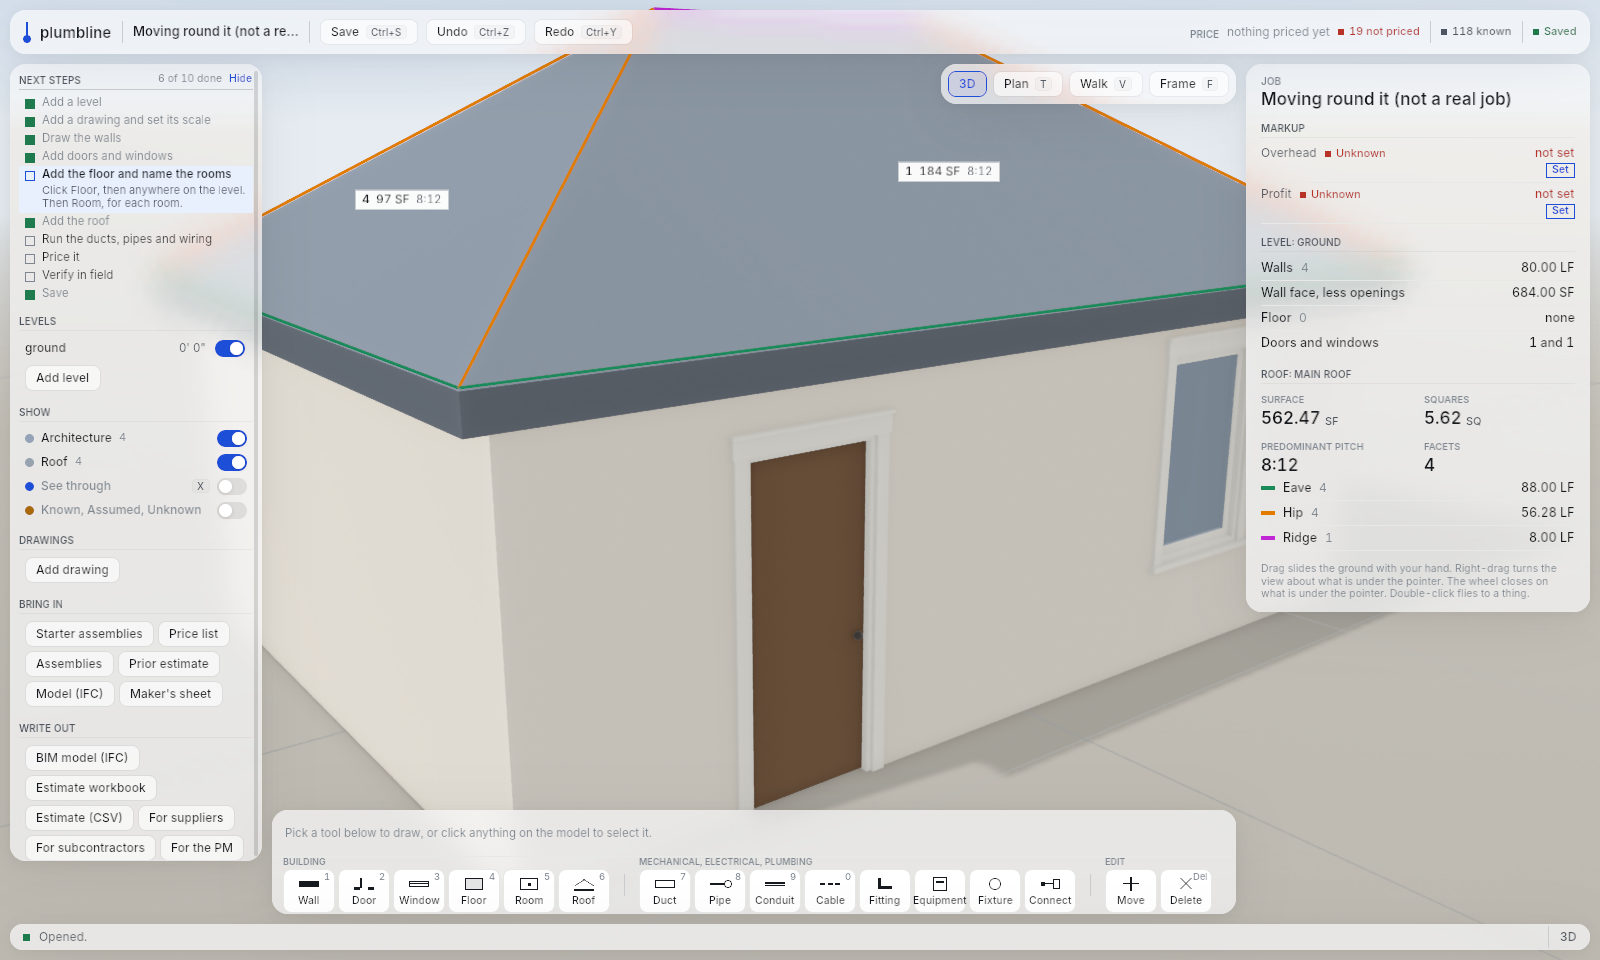
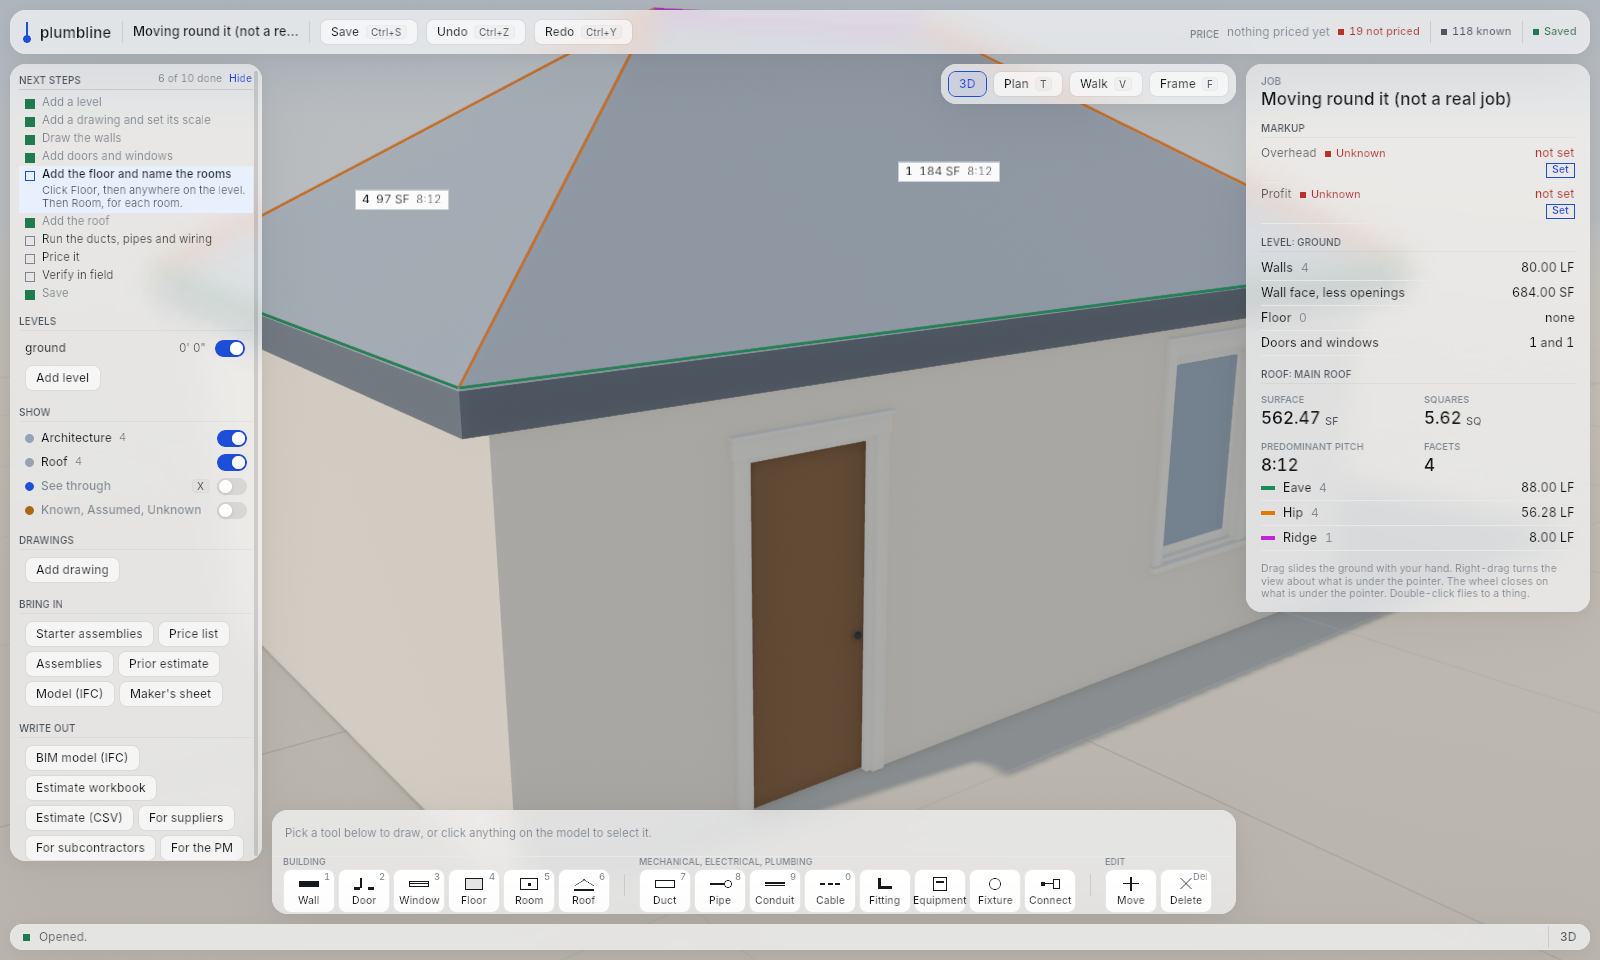
plumbline: the base in a room is drawn where it is priced; all seven of Patrick's trades have something in the model (call 73)
A wood base at the foot of the walls of each room with base priced on it,
along the room's outline, left out at each door; off with Finishes. Read
from the room's priced lines with a test. 280 tests pass. The pictures are
in demos/captured/trades with a table in STATUS of what each trade shows
and what it still lacks.

Under the new light the glass, carry, price and first-job demonstrations
pass as written; their pictures are from the build of the sky's-fill commit.
Two of the dressing demonstration's colour checks are re-derived for a wall
now out of the sun, each proved against the other's picture; its rerun and
the plan demonstration's are going.

Claude-Session: https://claude.ai/code/session_01PMY5GTDksocgFxqnWiqF81

Changed region(s): [[0.2812, 0.3125, 0.875, 0.8438], [0.0, 0.0, 1.0, 0.2812]]

diff --git a/plumbline/crates/app/src/scene.rs b/plumbline/crates/app/src/scene.rs
@@ -466,6 +466,64 @@ pub fn rebuild(
     // looks, half its thickness and its top. An eave that hangs past one gets a soffit.
     let mut outside_walls: Vec<(Vec3, Vec3, Vec3, f32, f32)> = Vec::new();
 
+    // ---- Interior woodwork: the base in each room that has base priced on it ----
+    // A board 5 1/4 in high and 5/8 in thick at the foot of the room's walls, along
+    // the room's own outline (the faces of its walls), left out across each door.
+    // It is finish: off with Finishes, and with its level.
+    if show.finishes && show.architecture && !on_plan_view {
+        let (tall, thick) = (5.25_f32 / 12.0, 0.625_f32 / 12.0);
+        for (room, (storey, outline)) in &snap.dress.base {
+            if show.storey.as_ref().is_some_and(|s| storey.as_ref() != Some(s)) || storey.as_ref().is_some_and(|s| show.off_levels.contains(s)) {
+                continue;
+            }
+            let floor = storey.as_ref().and_then(|s| snap.storeys.iter().find(|x| x.path == *s)).and_then(|s| s.elevation).unwrap_or(0.0);
+            // The doors of this level, each as its two ends on the plan and how far
+            // either side of its wall's centre line the wall reaches.
+            let doors: Vec<([f64; 2], [f64; 2], f64)> = snap.drawn.iter().filter(|p| p.kind == Kind::Wall && p.storey == *storey).flat_map(|p| match &p.shape {
+                Shape::Wall { a, b, thickness, holes, .. } => {
+                    let l = ((b[0] - a[0]).powi(2) + (b[1] - a[1]).powi(2)).sqrt().max(1e-9);
+                    let u = [(b[0] - a[0]) / l, (b[1] - a[1]) / l];
+                    holes.iter().filter(|h| h.1 == Kind::Door).map(|h| ([a[0] + u[0] * h.2[0], a[1] + u[1] * h.2[0]], [a[0] + u[0] * h.2[1], a[1] + u[1] * h.2[1]], thickness / 2.0 + 0.1)).collect::<Vec<_>>()
+                }
+                _ => Vec::new(),
+            }).collect();
+            for (i, e0) in outline.iter().enumerate() {
+                let e1 = outline[(i + 1) % outline.len()];
+                let len = ((e1[0] - e0[0]).powi(2) + (e1[1] - e0[1]).powi(2)).sqrt();
+                if len < 0.05 {
+                    continue;
+                }
+                let d = [(e1[0] - e0[0]) / len, (e1[1] - e0[1]) / len];
+                // What of this edge a door takes: a door in a wall that runs along it.
+                let mut cuts: Vec<(f64, f64)> = doors.iter().filter_map(|(p0, p1, reach)| {
+                    let off = |p: &[f64; 2]| ((p[0] - e0[0]) * d[1] - (p[1] - e0[1]) * d[0]).abs();
+                    let at = |p: &[f64; 2]| (p[0] - e0[0]) * d[0] + (p[1] - e0[1]) * d[1];
+                    (off(p0) <= *reach && off(p1) <= *reach).then(|| (at(p0).min(at(p1)), at(p0).max(at(p1))))
+                }).filter(|(t0, t1)| *t1 > 0.0 && *t0 < len).collect();
+                cuts.sort_by(|a, b| a.0.total_cmp(&b.0));
+                let mut from = 0.0;
+                let mut runs: Vec<(f64, f64)> = Vec::new();
+                for (t0, t1) in cuts {
+                    if t0 > from + 0.05 {
+                        runs.push((from, t0));
+                    }
+                    from = from.max(t1);
+                }
+                if len > from + 0.05 {
+                    runs.push((from, len));
+                }
+                // Inside the room is to the left of an outline that runs counter-clockwise.
+                let turn = Quat::from_rotation_y(d[1].atan2(d[0]) as f32);
+                for (t0, t1) in runs {
+                    let mid = (t0 + t1) / 2.0;
+                    let on_plan = [e0[0] + d[0] * mid - d[1] * f64::from(thick) / 2.0, e0[1] + d[1] * mid + d[0] * f64::from(thick) / 2.0];
+                    let middle = to_view(origin, [on_plan[0], on_plan[1], floor]) + Vec3::Y * (tall / 2.0);
+                    build.piece(room, None, solids.cube.clone(), Transform { translation: middle, rotation: turn, scale: Vec3::new((t1 - t0) as f32, tall, thick) }, theme::casework(), 0.6, 0.0, false);
+                }
+            }
+        }
+    }
+
     // ---- The rest of the building ----
     for p in &snap.drawn {
         // Its trade's switch, the level on show, its level's own switch, its system's.

diff --git a/plumbline/crates/world/src/finish.rs b/plumbline/crates/world/src/finish.rs
@@ -242,9 +242,21 @@ pub struct Dress {
     pub openings: HashMap<String, OpeningDress>,
     /// Eaves with a gutter priced on them, and the color named.
     pub gutters: HashMap<String, Said<()>>,
+    /// Rooms with base priced on them ("Base and trim", "baseboard"): the level each
+    /// is on, and its outline at the faces of its walls, counter-clockwise, in feet.
+    /// The base runs along that outline.
+    pub base: HashMap<String, (Option<String>, Vec<[f64; 2]>)>,
 }
 
 // ---- Reading a line ----
+
+/// Whether a line priced on a room names the base at the foot of its walls: "Base and
+/// trim", "baseboard", "wood base". Not a base cabinet, a gravel base or a base coat.
+pub fn base_in(text: &str) -> bool {
+    let w = words(text);
+    let other = ["cabinet", "cabinets", "gravel", "coat", "course", "plate", "sheet"];
+    w.iter().any(|x| x == "baseboard" || x == "baseboards") || (w.iter().any(|x| x == "base") && !w.iter().any(|x| other.contains(&x.as_str())))
+}
 
 /// Whether a line names a weather barrier: the sheet that keeps water out of the wall
 /// behind its finish. By the words the trade uses for it.
@@ -666,7 +678,8 @@ pub fn dress(job: &mut Job) -> Dress {
         let barrier = on.iter().any(|(text, _)| barrier_in(text));
         out.walls.insert(w.path.clone(), WallDress { outside, out: out_way, height: w.h, cladding, wainscot, past, framing, barrier });
     }
-    // Roof planes, openings and gutters.
+    // Roof planes, openings, gutters, and the base in rooms.
+    let outlines = building::room_outlines(job);
     for &e in &job.order.clone() {
         let (Some(node), Some(kind)) = (job.world.get::<Node>(e), job.world.get::<Kind>(e).copied()) else { continue };
         let path = node.path.clone();
@@ -686,6 +699,14 @@ pub fn dress(job: &mut Job) -> Dress {
                 let divided = unit.iter().find_map(|(text, _)| divided_in(text));
                 let flashed = on.iter().any(|(text, _)| words(text).iter().any(|w| w == "flashing" || w == "flashed"));
                 out.openings.insert(path, OpeningDress { sash, leaf: None, divided, tone, flashed });
+            }
+            Kind::Room => {
+                if on.iter().any(|(text, _)| base_in(text)) {
+                    if let Some(outline) = outlines.get(&path) {
+                        let storey = job.world.get::<Node>(e).and_then(|n| n.parent.clone());
+                        out.base.insert(path, (storey, outline.clone()));
+                    }
+                }
             }
             Kind::Door => {
                 let unit: Vec<&(String, String)> = on.iter().filter(|(text, _)| about(text, LEAVES, DOOR_KIND, NOT_DOOR)).collect();
@@ -871,6 +892,16 @@ pub fn said_of(d: &Dress, path: &str, kind: Kind) -> Vec<(String, String)> {
 #[cfg(test)]
 mod tests {
     use super::*;
+
+    #[test]
+    fn base_is_read_by_its_own_words() {
+        for said in ["Base and trim", "Baseboard, 5 1/4 in MDF", "Wood base, stained"] {
+            assert!(base_in(said), "{said}");
+        }
+        for said in ["Base cabinets", "Excavation and gravel base", "Stucco base coat", "Casing and trim", "Cabinets and countertops"] {
+            assert!(!base_in(said), "{said}");
+        }
+    }
 
     /// A weather barrier is read by the words the trade uses for it, and from nothing
     /// else: a line about sheathing alone, or about flashing, names no barrier.

diff --git a/plumbline/STATUS.md b/plumbline/STATUS.md
@@ -4853,3 +4853,50 @@ program itself built; its tests did not. I read the count after pushing, not bef
 The fix is one field in that test; 279 tests pass. `tools/committed.sh` exists to
 catch exactly this and had not been run since dd42088: it is run on this commit.
 
+## Interior woodwork drawn (Q23 step 4, call 73)
+
+**Built and seen.** `demos/captured/trades/6-interior-woodwork-drawn.png`: the made-up
+whole house's first floor alone, mechanical trades off, seen from above: its rooms,
+partitions and interior doors, sun through the windows on the floors, and a wood line
+at the foot of the walls of each of the five rooms with base priced on it.
+`6-interior-woodwork-close.png`: close on a partition: the base along it, stopping at
+the six-panel door's opening and going on the other side. Sent to Patrick. A test
+reads the words (base, and not a base cabinet or a gravel base). 280 tests pass.
+
+**How the pictures were got, which is a finding about the window.** Two tries before
+these were useless: a wheel into the house ended inside the ductwork, and a turn
+about a point on the ground swung the house off the screen. A person wanting to look
+into a floor from above has no one step for it. Picking the level alone and tilting
+with the arrow key worked. That is a navigation gap, not a woodwork one, and it is
+open.
+
+**Not right, or not done:** the base is hard to see until the view is close (it is
+5 1/4 in tall); no casing inside; no cabinets; no demonstration script; not judged.
+
+## All seven of Patrick's trades now have something in the model
+
+| Trade | In the model | Snapshot in `demos/captured/trades/` | Still missing |
+|---|---|---|---|
+| Foundation | strip footings (a kind of their own) and foundation walls, with a switch for the ground | `1-foundation-drawn.png` | on a small job of its own: the made-up whole house has none; pad footings; a tool in the window |
+| Framing | each wall with a framing line, as its frame (Framing switch) | `2-framing-drawn.png` | joists, rafters, corners; quantities from the frame |
+| Electrical | conduit, cable, panel, meter, devices | `3-electrical.png` | hard to read seen through |
+| Plumbing | pipe, fittings, fixtures | `4-plumbing.png` | hard to read seen through |
+| HVAC | duct, air handler, registers | `5-hvac.png` | |
+| Interior woodwork | base in each room with base priced | `6-interior-woodwork-drawn.png`, `-close.png` | casing, cabinets, stairs |
+| Waterproofing | weather barrier and opening flashing with the finish off (Finishes switch) | `7-waterproofing-drawn.png`, `-window.png` | roof underlayment, dampproofing, roof flashing |
+
+The first seven pictures (`1-foundation.png` to `7-waterproofing.png`) are the program
+as it was when he asked: four of them show estimate lines beside a finished house.
+None of the four new layers has a window demonstration script or has been judged.
+
+## The light under the six colour demonstrations (call 68, sky at 1,150)
+
+On the build of that commit: `glassw` PASS, `carryw` PASS, `pricew` PASS, `firstw`
+PASS (its plan's paper and inks unchanged, as they must be: nothing is folded on
+plan). `dressw`: four of six colour checks pass as they were written; two needed
+re-deriving for a wall that is now out of the sun (cedar there (132, 114, 98), the
+bare wall (156, 158, 159)). Each is now set between the two measurements and the
+script proves each test fails on the other's picture, every run. `planw` fails for a
+reason that is not the light (above). Reruns of `dressw` and `planw` on the current
+build are going now.
+

diff --git a/plumbline/DECISIONS.md b/plumbline/DECISIONS.md
@@ -2923,3 +2923,27 @@ estimate prices flashing by the opening, as its line says.
 foundation wall; flashing at roof lines (step, counter, valley), which the roof's
 lines could carry; the barrier's laps and tape.
 
+### Call 73. The base in a room is drawn where it is priced (2026-11-12)
+
+**Why now.** Q23's working assumption, step 4: interior woodwork is to be drawn. It
+was the last of Patrick's seven trades with nothing in the model.
+
+**The call.** A room with base priced on it ("Base and trim", "baseboard", "wood
+base"; never a base cabinet, a gravel base or a base coat) is drawn with its base: a
+board 5 1/4 in high and 5/8 in thick at the foot of its walls, along the room's own
+outline (the faces of its walls, the outline its floor area is the area of), left out
+across each door in a wall that runs along it. It is finish: it goes off with
+Finishes and with its level. It is drawn as wood so that it reads against a wall;
+what it is made of is not read from the line yet.
+
+**The board's size is a drawing size.** The estimate prices base by the LF of the
+room's perimeter, as its line says, and nothing is counted from what is drawn. A
+door's width is not yet taken out of that LF either: the drawing leaves the base out
+at a door and the line still prices the whole perimeter, which is how base is
+usually bought (the offcut is waste) and is said here so that nobody takes the two
+to disagree by accident.
+
+**Not yet:** casing round interior doors and the inside of windows; the kitchen's
+cabinets, which are one priced figure on the room with no layout to draw (a cabinet
+is drawn where one is placed as a thing: call 62's forms); stairs, shelving, crown.
+
